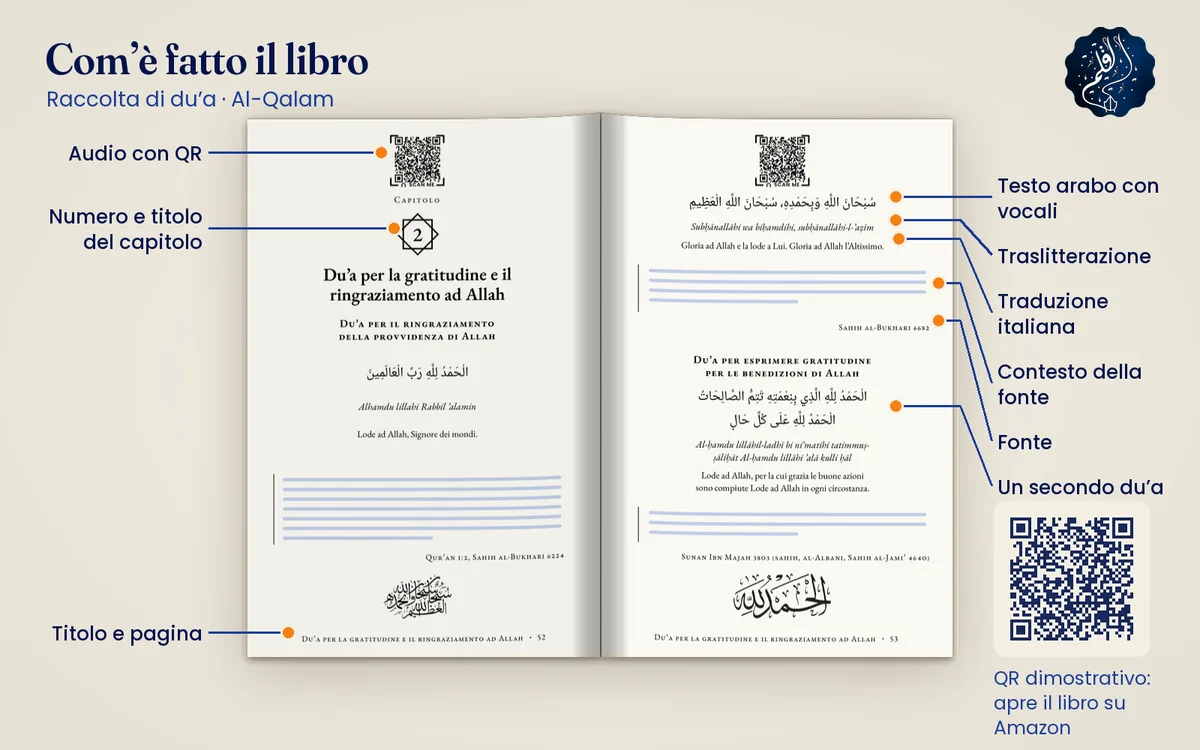
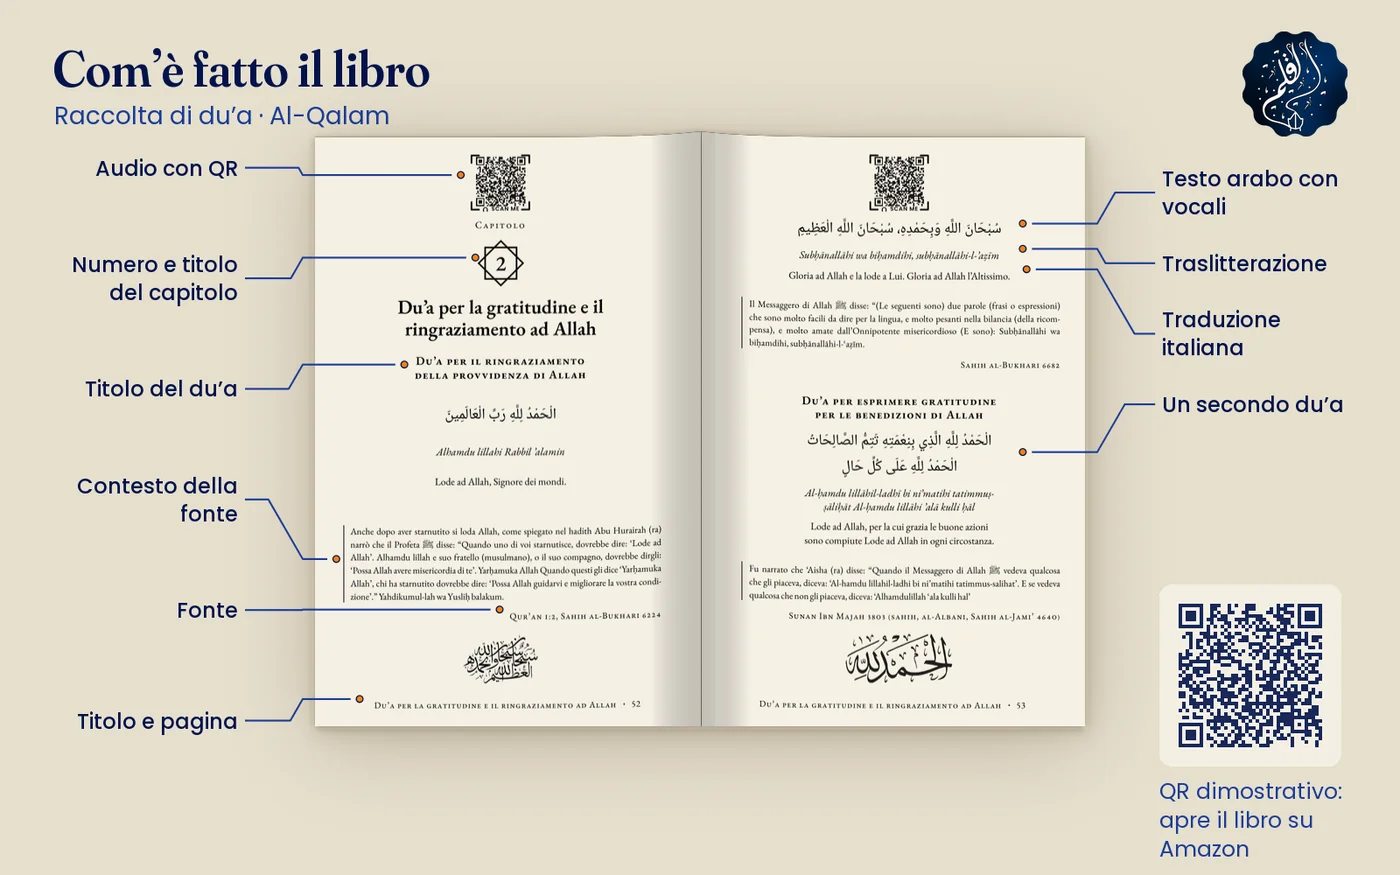
495 (parziale): hero leggero su crema, immagine libro aperto aggiornata (punto unico), main a tutta larghezza

diff --git a/index.html b/index.html
@@ -253,6 +253,38 @@ section.blocco>.in>h2{font-size:clamp(25px,6.6vw,32px);line-height:1.2;margin:0 
 .giorno-link{display:inline-flex;align-items:center;min-height:44px;margin-top:12px;color:var(--testo);font:600 15px/1.2 Poppins,sans-serif;text-decoration:underline;text-underline-offset:3px}
 .chiusura .info-contatore{color:#C4D2F3;text-align:left}
 </style>
+<style>
+/* 495: hero leggero su crema. Il blu notte resta nel sigillo, nel filetto e nel finale; l'arancio solo sul pulsante. */
+.hero{background:var(--fondo);color:var(--testo);padding-bottom:40px;border-bottom:1px solid var(--bordo)}
+.hero .nome{color:var(--testo)}
+.hero .sigillo{filter:none}
+.hero .nav a{color:var(--testo)}
+.hero-griglia{display:grid;grid-template-columns:minmax(0,1fr) 104px;grid-template-areas:"occ occ" "tit tit" "lead cop" "az cop";column-gap:18px;align-items:start;padding-top:30px}
+.hero .occ{grid-area:occ;margin:0 0 10px;font:600 13px/1.3 Poppins,sans-serif;letter-spacing:.16em;text-transform:uppercase;color:var(--tenue)}
+.hero .occ::before{content:"";display:block;width:44px;height:4px;border-radius:2px;background:#02134B;margin-bottom:14px}
+.hero h1{grid-area:tit;font-size:clamp(27px,7vw,38px);line-height:1.15;margin:0 0 16px;color:var(--testo)}
+.hero h1 em{font-style:italic;font-weight:400}
+.hero p.lead{grid-area:lead;margin:0 0 20px;font-size:16px;line-height:1.6;color:var(--testo)}
+.hero-azioni{grid-area:az}
+.hero-cop{grid-area:cop;width:104px;height:auto;aspect-ratio:828/1277;border-radius:6px;box-shadow:0 6px 18px rgba(2,19,75,.28),0 0 0 1px rgba(2,19,75,.12);display:block}
+.hero .cta{background:#B04B00;color:#F4EFE3;min-height:52px;padding:0 14px;font-size:15px;white-space:nowrap}
+main{max-width:none}
+.hero .cta:focus-visible,.hero .lnk:focus-visible{outline:3px solid #02134B;outline-offset:2px}
+.hero .lnk{color:var(--testo)}
+.sotto-cta{margin-top:4px}
+@media(min-width:800px){
+  .hero{padding-bottom:64px}
+  .hero-griglia{grid-template-columns:minmax(0,1fr) 250px;grid-template-areas:"occ cop" "tit cop" "lead cop" "az cop";column-gap:56px;padding-top:44px}
+  .hero-cop{width:250px}
+  .hero h1{font-size:44px;line-height:1.12}
+  .hero p.lead{font-size:18px;max-width:30em}
+}
+#qr{background:#E6DFCD;margin-top:44px;padding-bottom:40px}
+#qr .libro-aperto{border-radius:12px}
+section.blocco{padding-top:52px;padding-bottom:12px}
+#giorno{padding-top:48px}
+.fiducia{margin-top:40px}
+</style>
 </head>
 <body>
 <div class="hero fascia"><div class="in">
@@ -260,13 +292,14 @@ section.blocco>.in>h2{font-size:clamp(25px,6.6vw,32px);line-height:1.2;margin:0 
   <a class="marchio" href="/" aria-label="Al-Qalam, pagina iniziale"><img class="sigillo" src="assets/kit/sigillo-192.png" width="48" height="48" alt=""><span class="nome">AL-QALAM</span></a>
   <nav class="nav" aria-label="Collegamenti"><a href="https://www.instagram.com/alqalam.it/">Instagram</a></nav>
 </header>
+<div class="hero-griglia">
 <p class="occ">Raccolta di du’a</p>
 <h1>Le invocazioni del Qur’an e della Sunnah, con <em>audio</em></h1>
 <p class="lead">Arabo con vocali, traslitterazione, traduzione italiana e fonte, per ogni du’a. Il libro ha un QR sotto ogni invocazione: lo inquadri e ascolti.</p>
-<div class="hero-riga"><div>
-<a class="cta" href="/vai/libro.html">Vedi il libro su Amazon.it</a>
+<div class="hero-azioni"><a class="cta" href="/vai/libro.html">Vedi il libro su Amazon.it</a>
 <a class="lnk sotto-cta" href="#esempi">Ascolta tre du’a di esempio</a></div>
-<img class="hero-cop" src="assets/kit/copertina.jpg" width="240" height="370" alt="Copertina del libro Raccolta di Du’a, Tesori spirituali dal Qur’an e dalla Sunnah"></div>
+<img class="hero-cop" src="assets/kit/copertina.jpg" width="240" height="370" alt="Copertina del libro Raccolta di Du’a, Tesori spirituali dal Qur’an e dalla Sunnah">
+</div>
 </div></div>
 
 <main>
@@ -373,8 +406,8 @@ section.blocco>.in>h2{font-size:clamp(25px,6.6vw,32px);line-height:1.2;margin:0 
 <li>Si apre la pagina con l’audio: ascolti e ripeti, senza scaricare nulla.</li>
 </ol>
 <picture>
-<source media="(min-width:700px)" srcset="assets/kit/libro-aperto-o.webp" width="1200" height="750">
-<img class="libro-aperto" src="assets/kit/libro-aperto-v.webp" width="810" height="1012" loading="lazy" alt="Un’apertura del libro con le parti numerate: audio con QR, titolo del capitolo, arabo con vocali, traslitterazione, traduzione italiana, contesto della fonte e fonte">
+<source media="(min-width:700px)" srcset="assets/kit/libro-aperto-o.webp" width="1400" height="875">
+<img class="libro-aperto" src="assets/kit/libro-aperto-v.webp" width="1080" height="1350" loading="lazy" alt="Un’apertura del libro con le parti numerate: audio con QR, titolo del capitolo, arabo con vocali, traslitterazione, traduzione italiana, contesto della fonte e fonte">
 </picture>
 </div></section>
 
